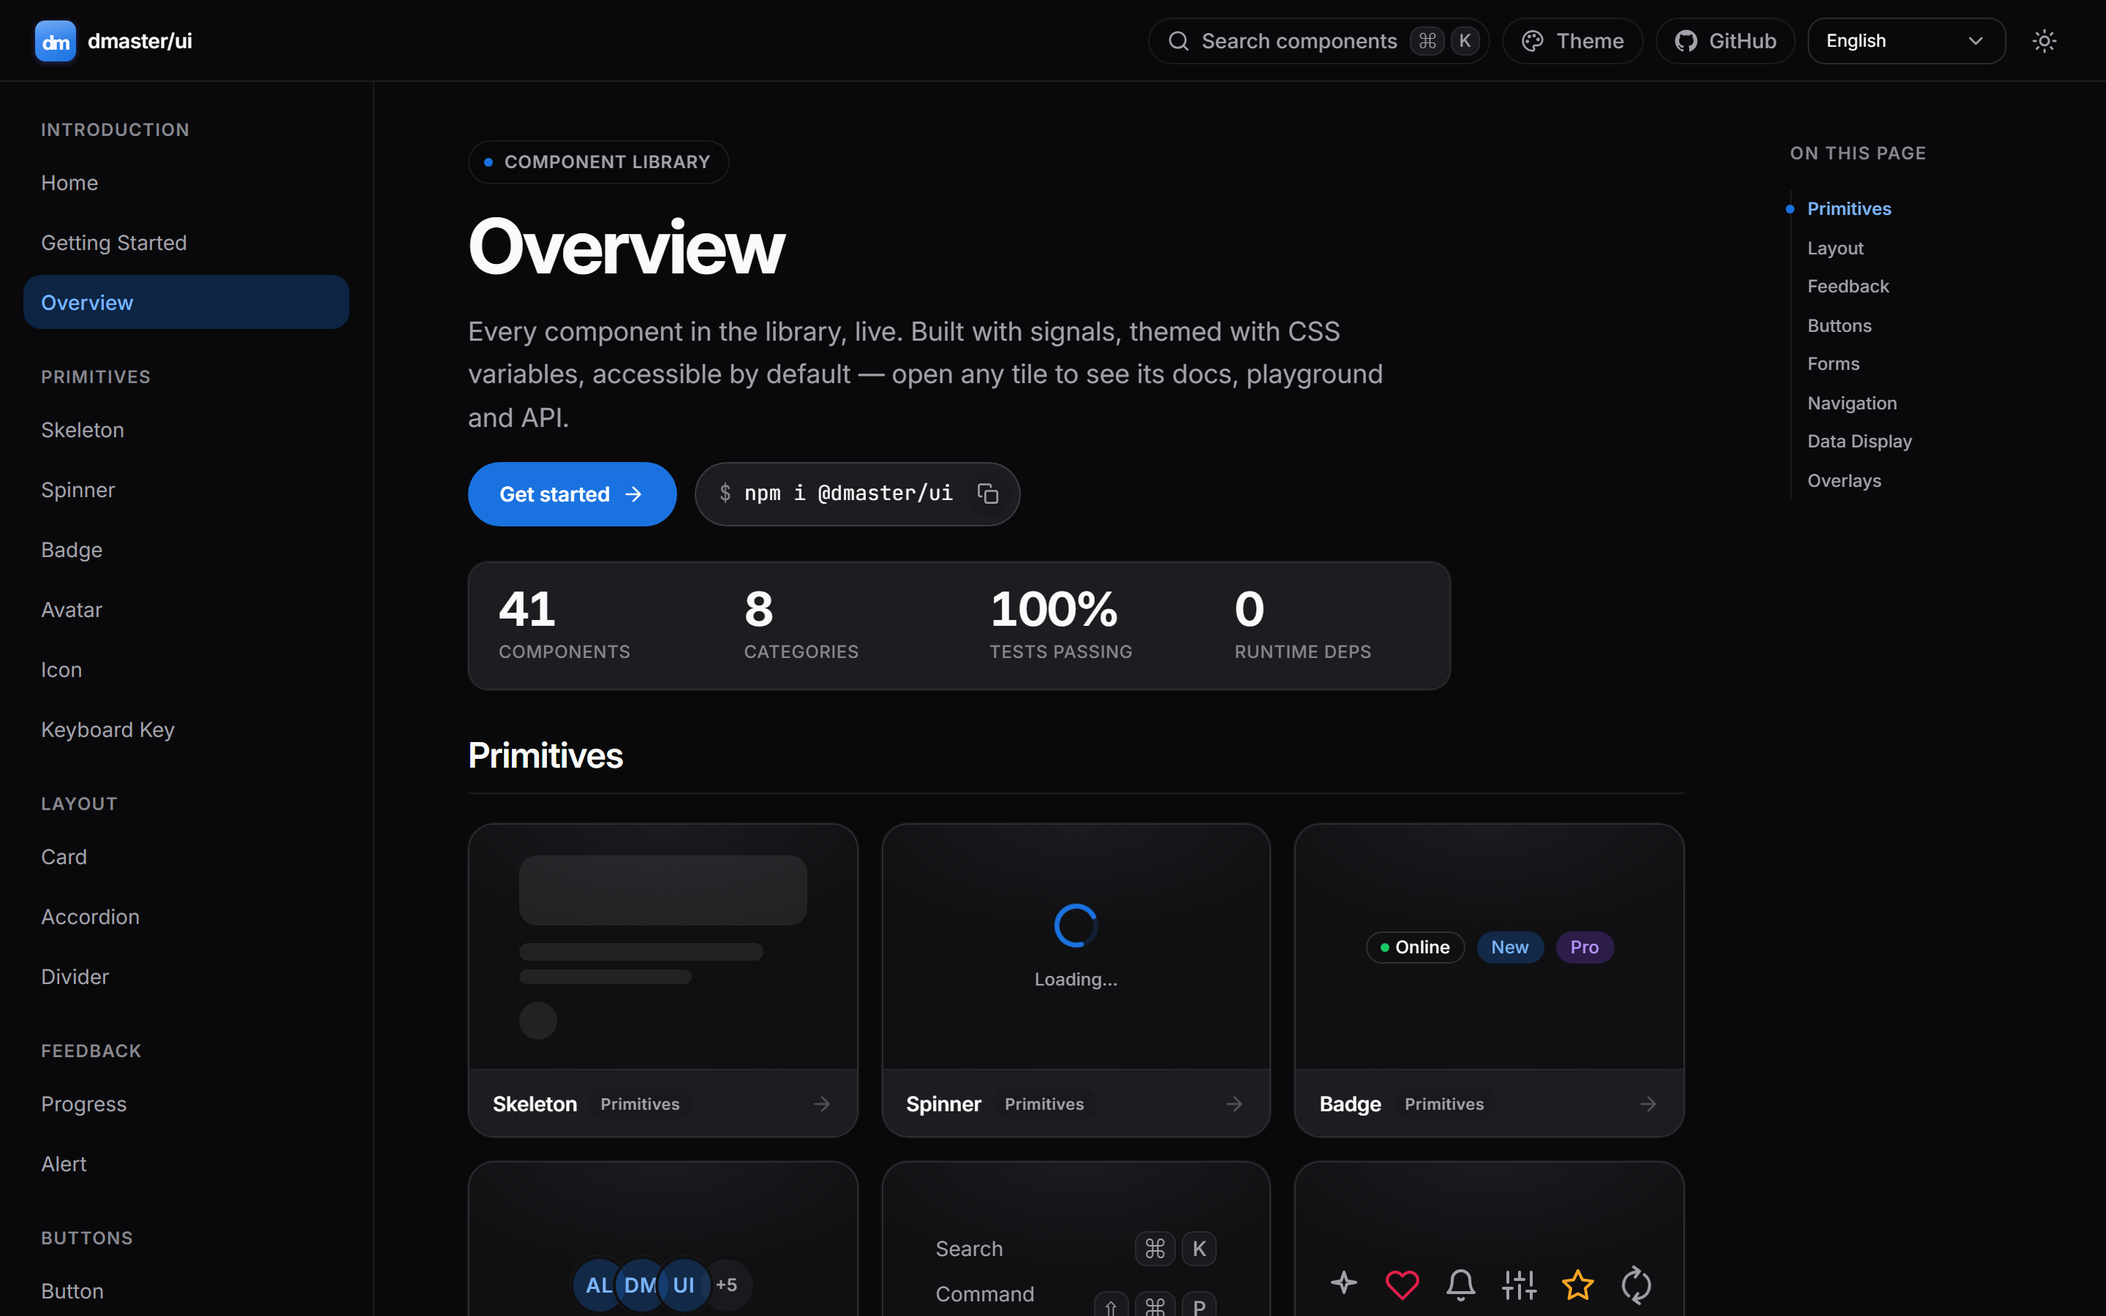
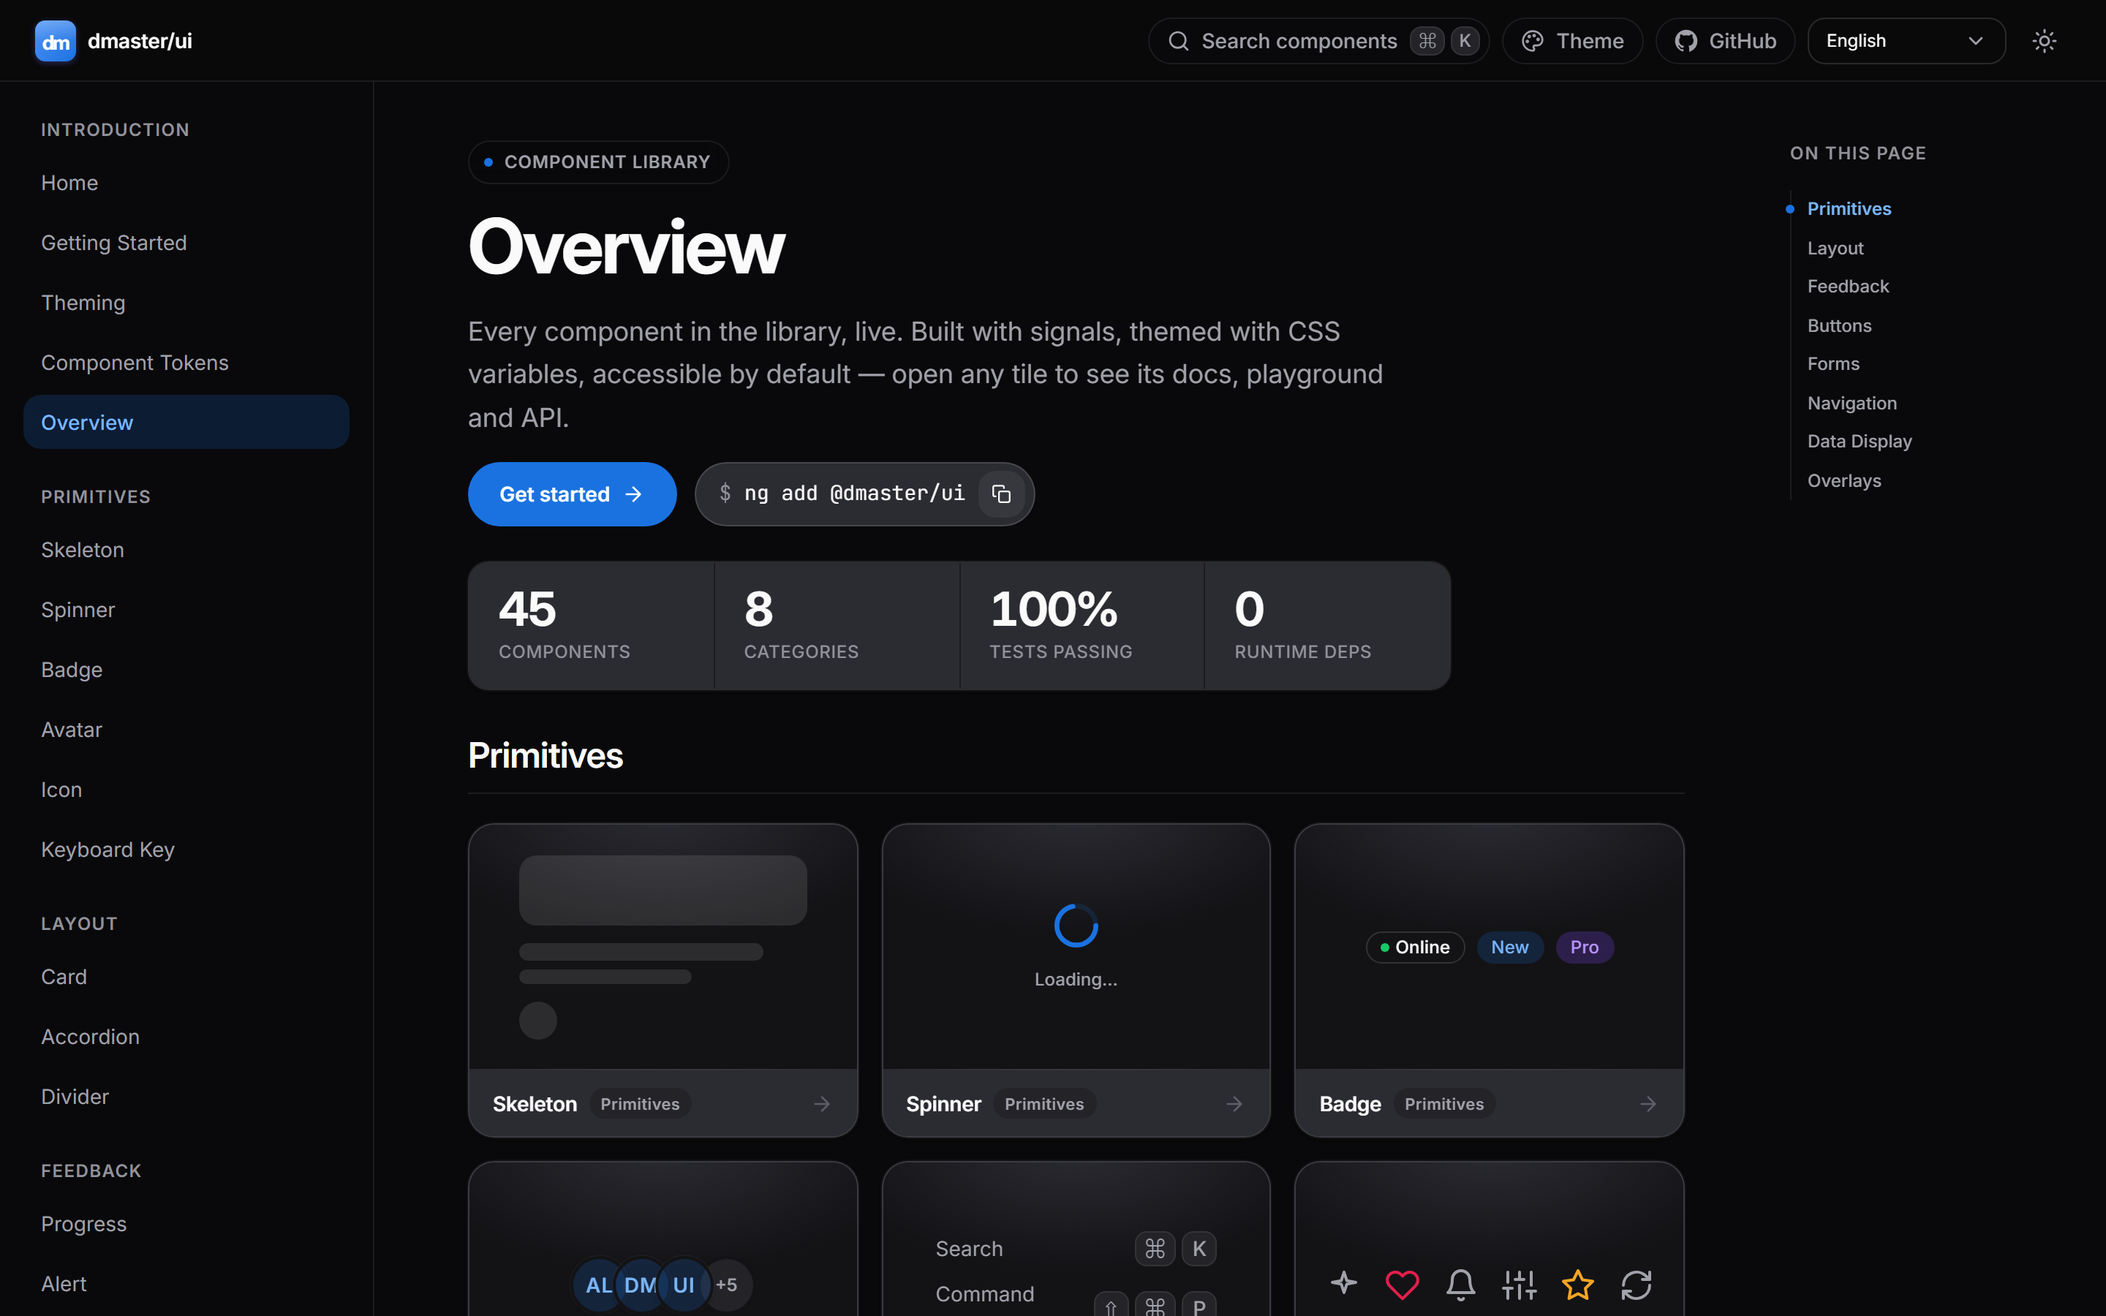
release: @dmaster/ui 0.10.2
Support Angular 20, 21 and 22 + documentation polish.

- package.json: Angular peer range widened to `^20 || ^21 || ^22` (was ^20),
  verified by building the package into fresh Angular 21 and 22 apps with no
  code changes; version 0.10.2.
- Docs: describe every component on its own terms across the site (EN/ES/FR),
  component READMEs and JSDoc; "No third-party UI dependencies" wording; remove
  version pins that understated the new 20-22 support (hero tagline, Angular
  badge -> "20 | 21 | 22", peer-dependency note).
- README bundle-size figures corrected to the current measured values (~102 kB).
- Regenerated the Overview gallery screenshots (light + dark, current 45).
- CHANGELOG [0.10.2]; release-log tag for the v0.10 line -> v0.10.2.

diff --git a/src/lib/components/navigation/pagination/pagination.component.ts b/src/lib/components/navigation/pagination/pagination.component.ts
@@ -21,7 +21,7 @@ import { DmPaginationColor, DmPaginationItem } from './pagination.types';
  * ```html
  * <dm-pagination [totalPages]="10" [(page)]="page" />
  *
- * <!-- Material-paginator style: the page count is derived from length / pageSize -->
+ * <!-- the page count is derived from length / pageSize -->
  * <dm-pagination [length]="123" [pageSize]="10" [(page)]="page" />
  *
  * <dm-pagination
@@ -88,7 +88,7 @@ export class DmPaginationComponent {
   // ---- Normalized state ------------------------------------------------------
   /**
    * Page count actually used: an explicit `totalPages` wins; otherwise it is
-   * derived from `length` / `pageSize` (Material-paginator style), falling
+   * derived from `length` / `pageSize`, falling
    * back to a single page when neither resolves.
    */
   private readonly resolvedTotalPages = computed(() => {

diff --git a/src/lib/components/primitives/icon/icon.component.ts b/src/lib/components/primitives/icon/icon.component.ts
@@ -23,8 +23,8 @@ const TOKEN_COLORS = new Set(['primary', 'secondary', 'success', 'warning', 'dan
  * <dm-icon><svg viewBox="0 0 24 24">…</svg></dm-icon>  <!-- project a raw SVG -->
  * ```
  *
- * Font mode (text content) needs the Material Symbols font loaded once, exactly
- * like Angular Material's `mat-icon`; `fill`, `weight` and `family` map to the
+ * Font mode (text content) needs the Material Symbols font loaded once;
+ * `fill`, `weight` and `family` map to the
  * variable-font axes (outlined ⇄ filled, weight, rounded/sharp). Color is a
  * one-liner via `color` (a semantic token or any CSS color); otherwise the icon
  * inherits `currentColor`. Decorative by default — pass `label` to expose it.

diff --git a/src/lib/components/primitives/icon/icon.tokens.ts b/src/lib/components/primitives/icon/icon.tokens.ts
@@ -64,8 +64,8 @@ export const ICON_SETS = new InjectionToken<DmIconSet[]>('DM_ICON_SETS');
  * ```
  *
  * Only pass **trusted** SVG markup: registered strings are rendered with the
- * Angular sanitizer bypassed (the same trust model as Angular Material's icon
- * registry). Never register markup that came from user input or the network.
+ * Angular sanitizer bypassed — only strings you register are ever trusted.
+ * Never register markup that came from user input or the network.
  */
 export function provideDmasterIcons(icons: DmIconSet): EnvironmentProviders {
   return makeEnvironmentProviders([{ provide: ICON_SETS, useValue: icons, multi: true }]);

diff --git a/src/lib/components/forms/date-picker/date-picker.tokens.ts b/src/lib/components/forms/date-picker/date-picker.tokens.ts
@@ -10,8 +10,8 @@ import {
 } from './date-picker.types';
 
 /**
- * App-wide locale for every `dm-date-picker` — the reactive analogue of
- * Material's `MAT_DATE_LOCALE`. Accepts a plain BCP-47 string or a
+ * App-wide locale for every `dm-date-picker` — a reactive locale token.
+ * Accepts a plain BCP-47 string or a
  * `Signal<string>`; with a signal, every open picker re-renders live when the
  * app language changes (names, digits, trigger text AND week convention).
  *

diff --git a/src/lib/components/forms/error/error.component.ts b/src/lib/components/forms/error/error.component.ts
@@ -5,7 +5,7 @@ import { DmErrorSize } from './error.types';
 
 /**
  * A validation error message for form fields — the standalone,
- * Angular-native equivalent of `mat-error`.
+ * A projected, accessible validation-error line for form fields.
  *
  * ```html
  * <dm-error>Email is required</dm-error>

diff --git a/CHANGELOG.md b/CHANGELOG.md
@@ -7,6 +7,19 @@ and this project adheres to [Semantic Versioning](https://semver.org/spec/v2.0.0
 
 ## [Unreleased]
 
+## [0.10.2] - 2026-09-01
+
+### Changed
+
+- **Support Angular 20, 21, and 22.** Widened the peer range from `^20.0.0`
+  (Angular 20 only) to `^20.0.0 || ^21.0.0 || ^22.0.0` for `@angular/common`,
+  `@angular/core`, `@angular/forms` and `@angular/cdk`. The compiled output
+  links cleanly under Angular 22 — verified by building the package into a fresh
+  Angular 22 app — with no code changes; consumers on Angular 21/22 no longer hit
+  a peer-dependency conflict.
+- Corrected the README bundle-size figures to the current measured values (full
+  tree-shaken library ~102 kB gzip).
+
 ## [0.10.1] - 2026-09-01
 
 ### Changed
@@ -165,7 +178,7 @@ and this project adheres to [Semantic Versioning](https://semver.org/spec/v2.0.0
   don't project keeps its built-in glyph.
 - **`dm-pagination` — derived page count (`length` + `pageSize`).** `totalPages`
   is now optional (`number | null`): pass the total item count as `length` and
-  the items per page as `pageSize` (Material-paginator style) and the pager
+  the items per page as `pageSize` and the pager
   derives `Math.max(1, Math.ceil(length / pageSize))` itself. An explicit
   `totalPages` still wins, existing `[totalPages]` bindings keep working
   unchanged, and when neither pair resolves the pager renders a single page.
@@ -593,8 +606,7 @@ light **and** dark on every documented example — the following were fixed:
 - Rewrote design-language copy across the README, CHANGELOG, JSDoc comments,
   per-component `README.md` files, SCSS comments and the docs site's en/es/fr
   translations to describe the library's flat, pill-radius, color × variant
-  design language on its own terms, without attributing it to another UI
-  library.
+  design language on its own terms.
 
 ## [0.4.1] - 2026-08-18
 
@@ -613,7 +625,7 @@ light **and** dark on every documented example — the following were fixed:
   MENA), and day digits also render through `Intl` (native numerals for
   `ar`/`fa`). Locale can also be provided app-wide and reactively via the new
   **`DM_DATE_LOCALE`** token (`provideDateLocale`), which accepts a plain
-  string or a `Signal<string>` — the reactive analogue of `MAT_DATE_LOCALE`, so
+  string or a `Signal<string>`, so
   every picker re-renders live on a language switch. `provideDatePickerDefaults`
   also covers `displayFormat` and `weekdayFormat`.
 - **`dm-color-picker`** — a full color picker in the forms family
@@ -621,8 +633,8 @@ light **and** dark on every documented example — the following were fixed:
   area, hue slider, optional alpha slider, editable hex input and quick swatches,
   in a field-family trigger that opens a CDK overlay. Pure `color-utils`
   (hex ⇄ rgb ⇄ hsv) underneath; `role="slider"` areas with `aria-valuetext`.
-- **`dm-error`** — a standalone validation line (the Angular equivalent of
-  `mat-error`): danger color, `role="alert"`, fully projected content. It
+- **`dm-error`** — a standalone validation line: danger color, `role="alert"`,
+  fully projected content. It
   carries **no icon of its own** — project one (e.g. `<dm-icon>`) when you
   want one. `dm-form-field` accepts a projected `<dm-error>` and wires
   `aria-invalid` / `aria-describedby` automatically.
@@ -631,8 +643,8 @@ light **and** dark on every documented example — the following were fixed:
   search semantics (Escape clears, Enter emits `(searchSubmit)`).
   `color` × `variant`, full `ControlValueAccessor` support.
 - **Icon system.** `dm-icon` draws an icon three ways: a **Material Symbols font
-  ligature** from its text content (`<dm-icon>home</dm-icon>`, thousands of icons,
-  like `mat-icon`), a **registered SVG** by `name`, or a **projected `<svg>`**.
+  ligature** from its text content (`<dm-icon>home</dm-icon>`, thousands of icons),
+  a **registered SVG** by `name`, or a **projected `<svg>`**.
   Font mode exposes the variable-font axes via `fill` (outlined ⇄ filled),
   `weight` and `family` (`outlined`/`rounded`/`sharp`). A `color` input takes a
   semantic token (`primary`, `success`, …) or any CSS color; otherwise it inherits
@@ -689,6 +701,7 @@ Initial public surface.
 - Per-component injectable defaults (`provideXxxDefaults()`), global `provideDmasterUI()`.
 - Flat, pill-radius design language: flat fills, pill radii, elastic press, color × variant tokens.
 
+[0.10.2]: https://github.com/diegomn98/dmaster-ui-workspace/compare/v0.10.1...v0.10.2
 [0.10.1]: https://github.com/diegomn98/dmaster-ui-workspace/compare/v0.10.0...v0.10.1
 [0.10.0]: https://github.com/diegomn98/dmaster-ui-workspace/compare/v0.9.0...v0.10.0
 [0.9.0]: https://github.com/diegomn98/dmaster-ui-workspace/compare/v0.8.0...v0.9.0

diff --git a/README.md b/README.md
@@ -6,7 +6,7 @@
 [![npm downloads](https://img.shields.io/npm/dm/@dmaster/ui?color=338EF7&style=flat-square)](https://www.npmjs.com/package/@dmaster/ui)
 [![CI](https://img.shields.io/github/actions/workflow/status/diegomn98/dmaster-ui-workspace/ci.yml?branch=main&style=flat-square&label=CI)](https://github.com/diegomn98/dmaster-ui-workspace/actions/workflows/ci.yml)
 [![license](https://img.shields.io/npm/l/@dmaster/ui?color=7EE7FC&style=flat-square)](https://github.com/diegomn98/dmaster-ui/blob/main/LICENSE)
-[![Angular](https://img.shields.io/badge/Angular-20-DD0031?style=flat-square&logo=angular&logoColor=white)](https://angular.dev)
+[![Angular](https://img.shields.io/badge/Angular-20%20%7C%2021%20%7C%2022-DD0031?style=flat-square&logo=angular&logoColor=white)](https://angular.dev)
 [![WCAG 2.1 AA](https://img.shields.io/badge/a11y-WCAG_2.1_AA-0F6E56?style=flat-square)](https://dmasterui.com)
 [![docs](https://img.shields.io/badge/docs-dmasterui.com-7c3aed?style=flat-square)](https://dmasterui.com)
 
@@ -14,7 +14,7 @@
 
 **[→ Browse every component live at dmasterui.com/components](https://dmasterui.com/components)** — each tile is the real, interactive component, not a screenshot.
 
-**[▶ Try it now on StackBlitz](https://stackblitz.com/github/diegomn98/dmaster-ui-workspace/tree/main/examples/starter)** — a minimal zoneless Angular 20 app already wired up with the library; no install needed. (Source: [`examples/starter`](https://github.com/diegomn98/dmaster-ui-workspace/tree/main/examples/starter).)
+**[▶ Try it now on StackBlitz](https://stackblitz.com/github/diegomn98/dmaster-ui-workspace/tree/main/examples/starter)** — a minimal zoneless Angular app already wired up with the library; no install needed. (Source: [`examples/starter`](https://github.com/diegomn98/dmaster-ui-workspace/tree/main/examples/starter).)
 
 <picture>
   <source media="(prefers-color-scheme: dark)" srcset="./docs-assets/overview-dark.png">
@@ -49,7 +49,7 @@ ng add @dmaster/ui
 npm install @dmaster/ui @angular/cdk
 ```
 
-> **Peer dependencies:** `@angular/core`, `@angular/common`, `@angular/forms`, `@angular/cdk` (^20) and `rxjs`
+> **Peer dependencies:** `@angular/core`, `@angular/common`, `@angular/forms`, `@angular/cdk` (^20 || ^21 || ^22) and `rxjs`
 
 ---
 
@@ -438,7 +438,7 @@ There's no shortage of component libraries in the Angular ecosystem. Here's how 
 | **API style**       | `input()`/`output()`/`model()` signals, standalone, no NgModules | Mix of legacy + newer APIs, NgModule-based         | NgModule + standalone hybrid                 | Signals, standalone                      | Signals, standalone                                                      |
 | **What you get**    | Pre-styled components, own flat/pill design language             | Pre-styled components (Material Design)            | Pre-styled components, several theme presets | Pre-styled components, own design system | **Unstyled primitives** — copy-paste styled blocks you own, shadcn-style |
 | **Theming**         | CSS custom properties only, no runtime engine                    | Sass theming API + Material 3 design tokens        | Runtime theme switcher + design tokens       | CSS custom properties                    | Tailwind-based, per-component                                            |
-| **Component count** | 45                                                               | Comprehensive Material Design set (CDK + Material) | Very large, kitchen-sink surface area        | 130+ (their own count)                   | 55+ primitives (their own count)                                         |
+| **Component count** | 45                                                               | Comprehensive Material Design set (CDK + Material) | Very large surface area                      | 130+ (their own count)                   | 55+ primitives (their own count)                                         |
 | **Zoneless**        | Built for it from day one                                        | Supported                                          | Supported                                    | Supported                                | Supported                                                                |
 | **Install model**   | `ng add`, then import & use                                      | `ng add`, then import & use                        | Install & import                             | Install & import                         | CLI **copies component source into your repo**                           |
 

diff --git a/src/lib/components/primitives/icon/README.md b/src/lib/components/primitives/icon/README.md
@@ -3,7 +3,7 @@
 One icon component, three ways to draw an icon — simplest first:
 
 ```html
-<!-- 1. Material Symbols font ligature (thousands of icons, like mat-icon) -->
+<!-- 1. Material Symbols font ligature (thousands of icons) -->
 <dm-icon>home</dm-icon>
 
 <!-- 2. A registered SVG by name (the curated set or your own) -->
@@ -18,7 +18,7 @@ It inherits `currentColor` and scales to any size.
 ## Font mode
 
 Type any [Material Symbols](https://fonts.google.com/icons) name as the content
-and it renders as a font ligature — exactly like Angular Material's `mat-icon`.
+and it renders as a font ligature.
 Load the font once (a single `<link>`, or self-host it):
 
 ```html
@@ -84,7 +84,7 @@ providers: [
 You can also register at runtime via `DmIconRegistry.register(name, svg)`.
 
 > **Security.** Registered SVG strings are rendered with the Angular sanitizer
-> bypassed (the same trust model as Angular Material's icon registry), so only
+> bypassed (only registry strings are ever trusted), so only
 > register **trusted** markup — never SVG from user input or the network.
 
 ## Accessibility

diff --git a/src/lib/components/forms/rating/README.md b/src/lib/components/forms/rating/README.md
@@ -1,6 +1,6 @@
 # Rating (`dm-rating`)
 
-Star rating control. Hover to preview, click to commit, or drive it entirely from the keyboard. Supports half-star precision, a `readonly` display mode that renders fractional averages (e.g. `3.7`), and a custom glyph. Works standalone with `[(value)]` and with Angular forms via `ControlValueAccessor`. No Angular Material dependency.
+Star rating control. Hover to preview, click to commit, or drive it entirely from the keyboard. Supports half-star precision, a `readonly` display mode that renders fractional averages (e.g. `3.7`), and a custom glyph. Works standalone with `[(value)]` and with Angular forms via `ControlValueAccessor`. No third-party UI dependencies.
 
 ## Usage
 

diff --git a/src/lib/components/forms/slider/README.md b/src/lib/components/forms/slider/README.md
@@ -1,6 +1,6 @@
 # Slider (`dm-slider`)
 
-Single-value range slider with an elastic thumb. Drag it, click anywhere on the track to jump, or drive it entirely from the keyboard. Works standalone with `[(value)]` and with Angular forms via `ControlValueAccessor`. No Angular Material dependency.
+Single-value range slider with an elastic thumb. Drag it, click anywhere on the track to jump, or drive it entirely from the keyboard. Works standalone with `[(value)]` and with Angular forms via `ControlValueAccessor`. No third-party UI dependencies.
 
 ## Usage
 

diff --git a/src/lib/components/buttons/button/README.md b/src/lib/components/buttons/button/README.md
@@ -1,6 +1,6 @@
 # Button (`dm-button`)
 
-Button with a **color × variant** API and built-in loading / success / error states. Stable width (no layout shift), integrated spinner, disabled while loading and screen-reader announcements via a polite live region. No Angular Material dependency.
+Button with a **color × variant** API and built-in loading / success / error states. Stable width (no layout shift), integrated spinner, disabled while loading and screen-reader announcements via a polite live region. No third-party UI dependencies.
 
 ## Usage
 

diff --git a/src/lib/components/data-display/timeline/README.md b/src/lib/components/data-display/timeline/README.md
@@ -4,8 +4,8 @@ Displays a chronological sequence of events along a rail: a marker per event
 (dot, glyph or any projected element), a connector to the next one, and a
 title / time / body block. Vertical by default, with an `alternate` zig-zag
 layout and a horizontal mode. Semantically a **list** (`role="list"` /
-`role="listitem"`); markers and connectors are decorative. No Angular Material
-dependency.
+`role="listitem"`); markers and connectors are decorative. No third-party
+UI dependencies.
 
 ## Usage
 
